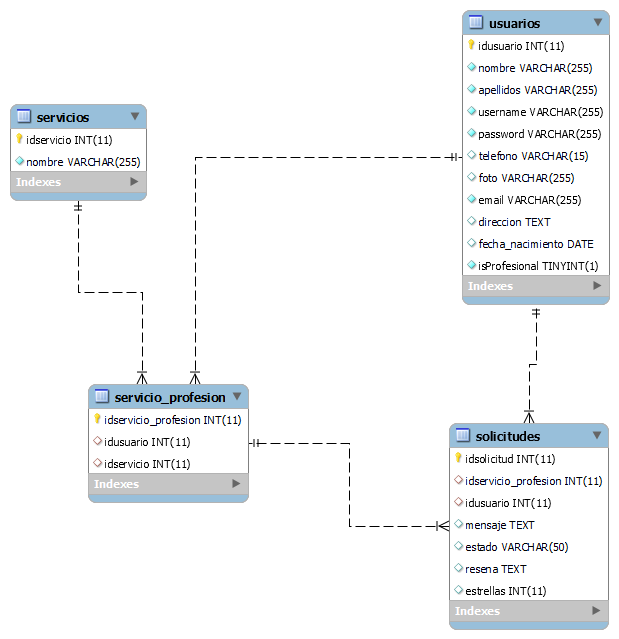
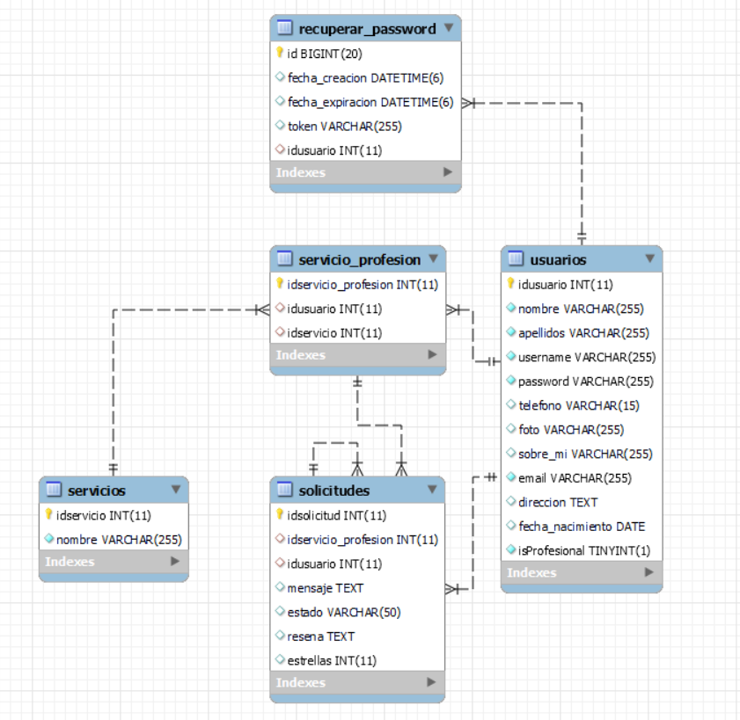
Restablecimiento de password y configuracion del email SMTP

diff --git a/Backend/src/main/java/com/c1848tjavaangular/domi/controllers/SolicitudesController.java b/Backend/src/main/java/com/c1848tjavaangular/domi/controllers/SolicitudesController.java
@@ -2,7 +2,10 @@ package com.c1848tjavaangular.domi.controllers;
 
 import com.c1848tjavaangular.domi.auth.jwt.JwtService;
 import com.c1848tjavaangular.domi.dtos.SolicitudesDto;
+import com.c1848tjavaangular.domi.services.ServicioProfesionService;
 import com.c1848tjavaangular.domi.services.SolicitudesService;
+import com.c1848tjavaangular.domi.services.UsuariosService;
+import com.c1848tjavaangular.domi.services.impl.EmailService;
 import org.springframework.http.HttpStatus;
 import org.springframework.http.ResponseEntity;
 import org.springframework.web.bind.annotation.*;
@@ -15,10 +18,16 @@ public class SolicitudesController {
 
     private final SolicitudesService solicitudesService;
     private final JwtService jwtService;
+    private final EmailService emailService;
+    private final ServicioProfesionService servicioProfesionService;
+    private final UsuariosService usuariosService;
 
-    public SolicitudesController(SolicitudesService solicitudesService, JwtService jwtService){
+    public SolicitudesController(SolicitudesService solicitudesService, JwtService jwtService, EmailService emailService, ServicioProfesionService servicioProfesionService, UsuariosService usuariosService){
         this.solicitudesService = solicitudesService;
         this.jwtService = jwtService;
+        this.emailService = emailService;
+        this.servicioProfesionService = servicioProfesionService;
+        this.usuariosService = usuariosService;
     }
 
     @GetMapping("/solicitud")
@@ -29,6 +38,17 @@ public class SolicitudesController {
     @PostMapping("/solicitud")
     public ResponseEntity<SolicitudesDto> save(@RequestHeader("token") String token,@RequestBody SolicitudesDto solicitudesDto){
         Integer idUsuario = jwtService.getIdUsuarioFromToken(token);
+        // Obtener el email del usuario profesional
+        String emailUsuario = servicioProfesionService.getEmailUsuario(solicitudesDto.getIdServicioProfesion());
+        // Obtener el username del usuario profesional
+        String username = servicioProfesionService.getUsername(solicitudesDto.getIdServicioProfesion());
+        // Obtener el telefono del usuario que solicita el servicio
+        String telefono = usuariosService.getTelefono(idUsuario);
+        // para que le llegue un correo al usuario profesional cuando se solicite su servicio
+        String url = "http://localhost:8095/api/solicitud"; // url de solicitudes del usuario
+        String urlWhatsapp = "https://wa.me/"+telefono; // URL para establecer una comunicacion entre el usuario profesional y usuario solicitante
+        emailService.sendSimpleMessage(emailUsuario, "Solicitudes pendientes", "Hola "+username+" \nEstan solicitando tus servicios, click en el link para iniciar una comunicación con el solicitante: " + urlWhatsapp);
+
         return new ResponseEntity<>(solicitudesService.save(idUsuario,solicitudesDto), HttpStatus.CREATED);
     }
 

diff --git a/Backend/src/main/java/com/c1848tjavaangular/domi/services/impl/ResetPasswordServiceImpl.java b/Backend/src/main/java/com/c1848tjavaangular/domi/services/impl/ResetPasswordServiceImpl.java
@@ -1,0 +1,59 @@
+package com.c1848tjavaangular.domi.services.impl;
+
+import com.c1848tjavaangular.domi.exceptions.AppNotFoundException;
+import com.c1848tjavaangular.domi.models.entities.ResetPassword;
+import com.c1848tjavaangular.domi.models.entities.Usuarios;
+import com.c1848tjavaangular.domi.repository.ResetPasswordRepository;
+import com.c1848tjavaangular.domi.repository.UsuariosRepository;
+import com.c1848tjavaangular.domi.services.ResetPasswordService;
+import org.springframework.security.crypto.password.PasswordEncoder;
+import org.springframework.stereotype.Service;
+
+import java.util.UUID;
+
+@Service
+public class ResetPasswordServiceImpl implements ResetPasswordService {
+
+    private final UsuariosRepository usuariosRepository;
+    private final ResetPasswordRepository resetPasswordRepository;
+    private final PasswordEncoder passwordEncoder;
+
+    public ResetPasswordServiceImpl(UsuariosRepository usuariosRepository, ResetPasswordRepository resetPasswordRepository, PasswordEncoder passwordEncoder){
+        this.usuariosRepository = usuariosRepository;
+        this.resetPasswordRepository = resetPasswordRepository;
+        this.passwordEncoder = passwordEncoder;
+    }
+
+    @Override
+    public String createPasswordResetToken(String email) {
+        Usuarios usuario = usuariosRepository.findByEmail(email)
+                .orElseThrow(()-> new AppNotFoundException("Usuario not found!"));
+
+        String token = UUID.randomUUID().toString();
+        ResetPassword myToken = new ResetPassword(token, usuario);
+        resetPasswordRepository.save(myToken);
+
+        return token;
+    }
+
+    @Override
+    public boolean validatePasswordResetToken(String token) {
+        ResetPassword myToken = resetPasswordRepository.findByToken(token).orElse(null);
+        return myToken != null && !myToken.isExpired();
+    }
+
+    @Override
+    public void resetPassword(String token, String newPassword) {
+        if (validatePasswordResetToken(token)) {
+            ResetPassword myToken = resetPasswordRepository.findByToken(token)
+                    .orElseThrow(() -> new AppNotFoundException("Token invalido!"));
+
+            Usuarios usuario = myToken.getUser();
+            usuario.setPassword(passwordEncoder.encode(newPassword));
+            usuariosRepository.save(usuario);
+        } else {
+            throw new AppNotFoundException("Token invalido o ha expirado");
+        }
+
+    }
+}

diff --git a/Backend/src/main/java/com/c1848tjavaangular/domi/controllers/ResetPasswordController.java b/Backend/src/main/java/com/c1848tjavaangular/domi/controllers/ResetPasswordController.java
@@ -1,0 +1,33 @@
+package com.c1848tjavaangular.domi.controllers;
+
+import com.c1848tjavaangular.domi.services.ResetPasswordService;
+import com.c1848tjavaangular.domi.services.impl.EmailService;
+import org.springframework.http.ResponseEntity;
+import org.springframework.web.bind.annotation.*;
+
+@RestController
+@RequestMapping("/api/password")
+public class ResetPasswordController {
+
+    private final ResetPasswordService resetPassword;
+    private final EmailService emailService;
+
+    public ResetPasswordController(ResetPasswordService resetPassword, EmailService emailService) {
+        this.resetPassword = resetPassword;
+        this.emailService = emailService;
+    }
+
+    @PostMapping("/forgot")
+    public ResponseEntity<String> forgotPassword(@RequestParam String email) {
+        String token = resetPassword.createPasswordResetToken(email);
+        String resetUrl = "http://localhost:8095/password/reset?token=" + token;
+        emailService.sendSimpleMessage(email, "Password Reset Request", "Haga clic en el enlace para restabecer su contraseña: " + resetUrl);
+        return ResponseEntity.ok("Password reset email sent");
+    }
+
+    @PostMapping("/reset")
+    public ResponseEntity<?> resetPassword(@RequestParam String token, @RequestParam String newPassword) {
+        resetPassword.resetPassword(token, newPassword);
+        return ResponseEntity.ok().body("Password reset successfully");
+    }
+}

diff --git a/Backend/src/main/java/com/c1848tjavaangular/domi/repository/ServicioProfesionRepository.java b/Backend/src/main/java/com/c1848tjavaangular/domi/repository/ServicioProfesionRepository.java
@@ -39,4 +39,19 @@ public interface ServicioProfesionRepository extends JpaRepository<ServicioProfe
             "JOIN ServicioProfesion sp ON u.id = sp.usuario.id \n" +
             "JOIN Servicios s ON sp.servicio.id = s.id  WHERE u.direccion =:direccionUsuario")
     List<ServiciosUsuarioDto> findByUsuariosDireccion(String direccionUsuario);
+
+    // Obtener el email del usuario profesional por el idservicio_profesion
+    @Query(value = "SELECT  us.email\n" +
+            "FROM servicio_profesion sp \n" +
+            "JOIN usuarios us ON sp.idusuario = us.idusuario\n" +
+            "WHERE sp.idservicio_profesion =:idServicioP", nativeQuery = true)
+    String emailByIdServicioProfesional(Integer idServicioP);
+
+    // Obtener el username del usuario profesional por el idservicio_profesion
+    @Query(value = "SELECT  us.username\n" +
+            "FROM servicio_profesion sp \n" +
+            "JOIN usuarios us ON sp.idusuario = us.idusuario\n" +
+            "WHERE sp.idservicio_profesion =:idServicioP", nativeQuery = true)
+    String usernameByIdServicioProfesional(Integer idServicioP);
+
 }

diff --git a/Backend/src/main/java/com/c1848tjavaangular/domi/models/entities/ResetPassword.java b/Backend/src/main/java/com/c1848tjavaangular/domi/models/entities/ResetPassword.java
@@ -1,0 +1,47 @@
+package com.c1848tjavaangular.domi.models.entities;
+
+import jakarta.persistence.*;
+import lombok.Getter;
+import lombok.Setter;
+
+import java.util.Date;
+
+@Getter
+@Setter
+@Entity
+@Table(name = "recuperar_password")
+public class ResetPassword {
+
+    @Id
+    @GeneratedValue(strategy = GenerationType.IDENTITY)
+    private Long id;
+
+    private String token;
+
+    @Column(name = "fecha_creacion")
+    private Date createdDate = new Date();
+
+    @Column(name = "fecha_expiracion")
+    private Date expirationDate;
+
+    @ManyToOne
+    @JoinColumn(name = "idusuario")
+    private Usuarios user;
+
+    public ResetPassword() {}
+
+    public ResetPassword(String token, Usuarios user) {
+        this.token = token;
+        this.user = user;
+        this.expirationDate = calcularExpiracion();
+    }
+
+    public Date calcularExpiracion(){
+        long expirationTime = 600000; //10 minutos
+        return new Date(createdDate.getTime() + expirationTime);
+    }
+
+    public boolean isExpired() {
+        return new Date().after(this.expirationDate);
+    }
+}

diff --git a/Backend/src/main/java/com/c1848tjavaangular/domi/services/impl/EmailService.java b/Backend/src/main/java/com/c1848tjavaangular/domi/services/impl/EmailService.java
@@ -1,0 +1,22 @@
+package com.c1848tjavaangular.domi.services.impl;
+
+import org.springframework.mail.SimpleMailMessage;
+import org.springframework.mail.javamail.JavaMailSender;
+import org.springframework.stereotype.Service;
+
+@Service
+public class EmailService {
+    private final JavaMailSender javaMailSender;
+
+    public EmailService(JavaMailSender javaMailSender){
+        this.javaMailSender = javaMailSender;
+    }
+
+    public void sendSimpleMessage(String to, String subject, String text) {
+        SimpleMailMessage message = new SimpleMailMessage();
+        message.setTo(to);
+        message.setSubject(subject);
+        message.setText(text);
+        javaMailSender.send(message);
+    }
+}

diff --git a/Backend/src/main/java/com/c1848tjavaangular/domi/repository/UsuariosRepository.java b/Backend/src/main/java/com/c1848tjavaangular/domi/repository/UsuariosRepository.java
@@ -1,6 +1,7 @@
 package com.c1848tjavaangular.domi.repository;
 
 import org.springframework.data.jpa.repository.JpaRepository;
+import org.springframework.data.jpa.repository.Query;
 import org.springframework.data.repository.CrudRepository;
 
 import com.c1848tjavaangular.domi.models.entities.Usuarios;
@@ -15,5 +16,8 @@ public interface UsuariosRepository extends JpaRepository<Usuarios,Integer> {
     Boolean existsByUsername(String username);
 
     Boolean existsByEmail(String email);
+
+    @Query("SELECT u.telefono FROM Usuarios u WHERE u.idUsuarios = :idUsuario")
+    String findTelefonoByIdUsuarios(Integer idUsuario);
     
 }

diff --git a/Backend/src/main/java/com/c1848tjavaangular/domi/services/impl/ServicioProfesionServiceImpl.java b/Backend/src/main/java/com/c1848tjavaangular/domi/services/impl/ServicioProfesionServiceImpl.java
@@ -76,4 +76,14 @@ public class ServicioProfesionServiceImpl implements ServicioProfesionService{
     public boolean existsById(Integer id) {
         return false;
     }
+
+    @Override
+    public String getEmailUsuario(Integer idServicioP) {
+        return servicioProfesionRepository.emailByIdServicioProfesional(idServicioP);
+    }
+
+    @Override
+    public String getUsername(Integer idServicioP) {
+        return servicioProfesionRepository.usernameByIdServicioProfesional(idServicioP);
+    }
 }

diff --git a/Backend/src/main/java/com/c1848tjavaangular/domi/config/SecurityConfig.java b/Backend/src/main/java/com/c1848tjavaangular/domi/config/SecurityConfig.java
@@ -47,6 +47,7 @@ public class SecurityConfig {
                 .authorizeHttpRequests(
                         authRequest ->authRequest
                                 .requestMatchers("/auth/**").permitAll()
+                                .requestMatchers("/api/password/**").permitAll()
                                 .anyRequest().authenticated()
                 )
                 .sessionManagement(sessionManager->sessionManager

diff --git a/Backend/src/main/java/com/c1848tjavaangular/domi/repository/ResetPasswordRepository.java b/Backend/src/main/java/com/c1848tjavaangular/domi/repository/ResetPasswordRepository.java
@@ -1,0 +1,12 @@
+package com.c1848tjavaangular.domi.repository;
+
+import com.c1848tjavaangular.domi.models.entities.ResetPassword;
+import org.springframework.data.jpa.repository.JpaRepository;
+import org.springframework.stereotype.Repository;
+
+import java.util.Optional;
+
+@Repository
+public interface ResetPasswordRepository extends JpaRepository<ResetPassword, Long> {
+    Optional<ResetPassword> findByToken(String token);
+}

diff --git a/Backend/src/main/java/com/c1848tjavaangular/domi/services/impl/UsuariosServiceImpl.java b/Backend/src/main/java/com/c1848tjavaangular/domi/services/impl/UsuariosServiceImpl.java
@@ -73,4 +73,9 @@ public class UsuariosServiceImpl implements UsuariosService {
         usuariosMapper.updateUsuario(usuario,usuariosDto);
         return usuariosMapper.toUsuariosDto(usuariosRepository.save(usuario));
     }
+
+    @Override
+    public String getTelefono(Integer idUsuario) {
+        return usuariosRepository.findTelefonoByIdUsuarios(idUsuario);
+    }
 }

diff --git a/Backend/src/main/java/com/c1848tjavaangular/domi/services/ResetPasswordService.java b/Backend/src/main/java/com/c1848tjavaangular/domi/services/ResetPasswordService.java
@@ -1,0 +1,10 @@
+package com.c1848tjavaangular.domi.services;
+
+public interface ResetPasswordService {
+
+    public String createPasswordResetToken(String email);
+
+    public boolean validatePasswordResetToken(String token);
+
+    public void resetPassword(String token, String newPassword);
+}
